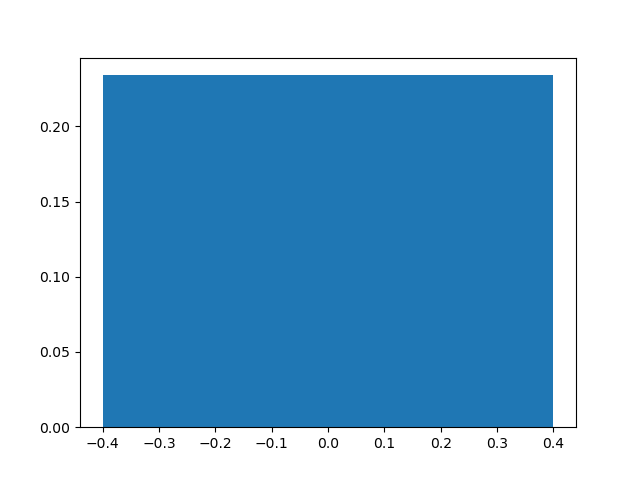
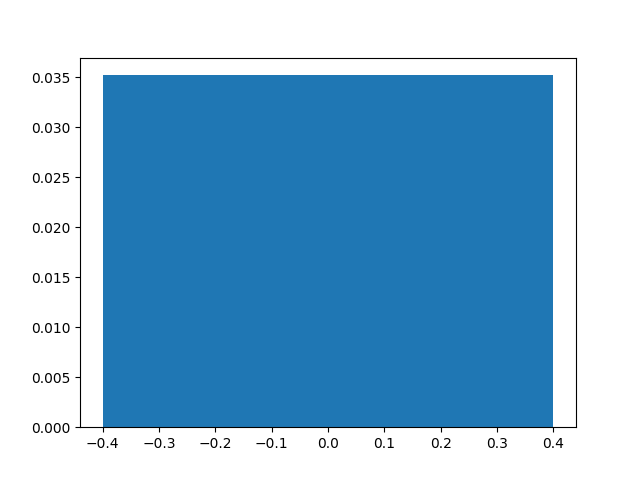
hit gradient wall

diff --git a/testing.py b/testing.py
@@ -160,6 +160,13 @@ def load_image_data(image_path):
     return x
 
 
+def coalesce(x):
+    #Using numpy will stop gradient computations, but do i need the gradients to be computed in the output layer?
+    print()
+    print(x)
+    return x
+
+
 def main():
 
     # Since we only need images from the dataset to encode and decode, we
@@ -181,7 +188,7 @@ def main():
     # ADJUST THESE FOR DIFFERENT TESTS
     #n_filters = 3
     #filter_x, filter_y = 3, 3
-    for n_filters in range(1, 2):
+    for n_filters in range(2, 3):
         for f in range(3, 4):
             filter_x, filter_y = f, f
             output_path = f'force_testing_transpose1000_l1/{n_filters}_filters_/line/'
@@ -195,11 +202,12 @@ def main():
             input = layers.Input(shape=(img_height, img_width, 1))
 
             # Encoder
-            x = layers.Conv2D(n_filters, (filter_x, filter_y), activation="relu", padding="same", name='Conv2D_1', activity_regularizer=keras.regularizers.l1(55e-5))(input)
+            x = layers.Conv2D(n_filters, (filter_x, filter_y), activation="sigmoid", padding="same", use_bias=False, name='Conv2D_1', activity_regularizer=keras.regularizers.l1(0))(input)
 
             # Decoder
-            x = layers.Conv2DTranspose(n_filters, (filter_x, filter_y), strides=1, activation="relu", padding="same", name='Conv2DT_1', kernel_constraint=tf.keras.constraints.NonNeg())(x)
-            x = layers.Conv2D(1, (filter_x, filter_y), activation="sigmoid", padding="same", name='Conv2D_out')(x)
+            x = layers.Conv2DTranspose(n_filters, (filter_x, filter_y), strides=1, activation="sigmoid", use_bias=False, padding="same", name='Conv2DT_1', kernel_constraint=tf.keras.constraints.NonNeg())(x)
+            x = layers.Lambda(coalesce)(x)
+
 
             # Autoencoder
             autoencoder = Model(input, x)
@@ -210,23 +218,27 @@ def main():
             autoencoder.fit(
             x=train_data,
             y=train_data,
-            epochs=1000,
+            epochs=1,
             batch_size=1,
             shuffle=False,
             validation_data=(train_data, train_data)
             )
 
 
-
+            #plt.imshow(train_data[0], cmap='gray')
+            #plt.show()
+            #plt.clf()
+            """
             Ys = []
             for i in range(n_filters):
-                filters, biases = autoencoder.get_layer(name=layer_name).get_weights()
+                filters = autoencoder.get_layer(name=layer_name).get_weights()
                 test_model = keras.models.clone_model(autoencoder)
-                test_filters = filters
+                test_filters = filters[0]
+                print(np.shape(test_filters))
                 test_filters[:, :, :, i] = np.reshape([0.0] * (filter_x * filter_y), (filter_x, filter_y, 1))
-                test_biases = biases
-                test_biases[i] = 0.0
-                test_model.get_layer(name=layer_name).set_weights([test_filters, test_biases])
+                #test_biases = biases
+                #test_biases[i] = 0.0
+                test_model.get_layer(name=layer_name).set_weights([test_filters])
 
                 img1 = autoencoder(test_data, training=False)
                 img2 = test_model(test_data, training=False)
@@ -241,8 +253,9 @@ def main():
 
 
 
-            filters, biases = autoencoder.get_layer(name=layer_name).get_weights()
+            filters = autoencoder.get_layer(name=layer_name).get_weights()
             # normalize filter values to 0-1 so we can visualize them
+            filters = filters[0]
             f_min, f_max = filters.min(), filters.max()
             filters = (filters - f_min) / (f_max - f_min)
             # plot first few filters
@@ -328,6 +341,6 @@ def main():
 
                 i += 1
                 all_imgs.append(img)
-            
+            """
 
 main()
